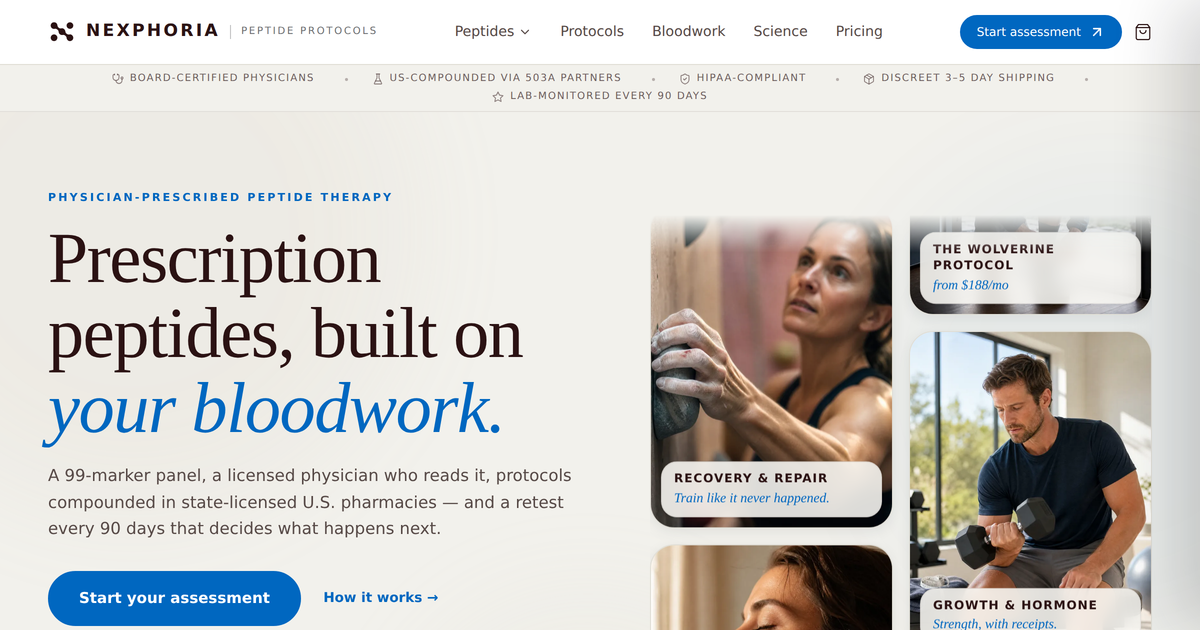
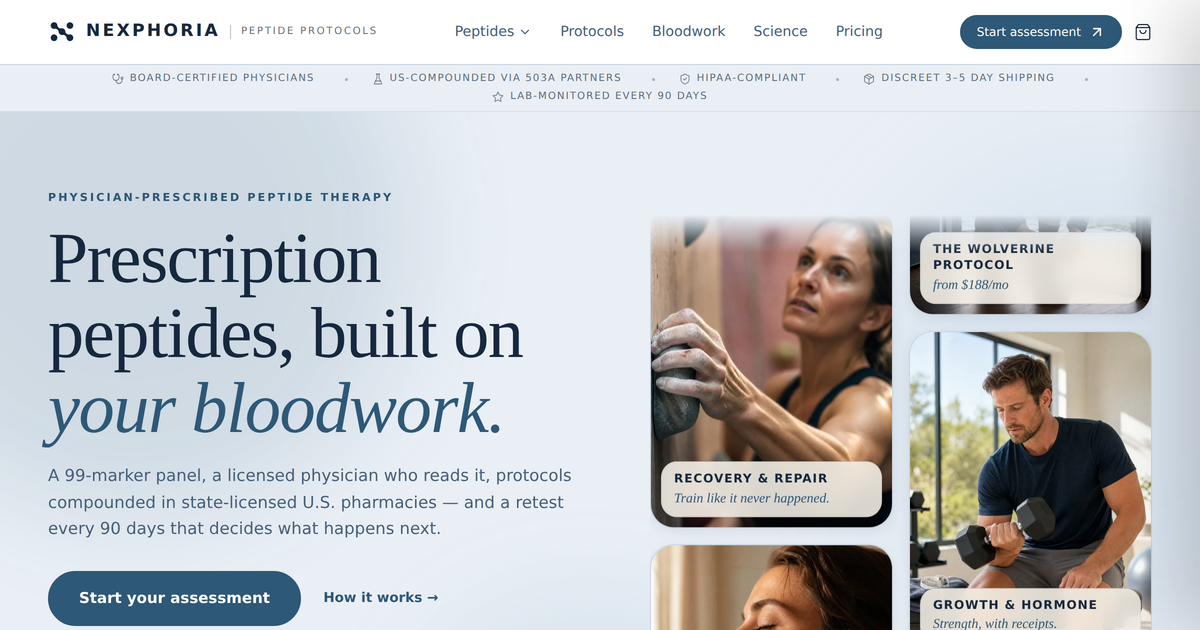
Our colors are back — Porcelain & Navy restored; the protocole grammar stays
WHAT: Chiya's call on seeing Bone & Espresso live: 'why the brown color? can
we keep our colors?' — so the palette experiment is reverted exactly as it
was designed to be: client/src/index.css restored from the pre-sheet history
(881bea4), bringing back the porcelain field, navy ink, azure accent, and
orchid women's world everywhere, including the aurora, light-hero gradient,
mx- family, and the vial/tint illustration palettes. The theprotocole.com
GRAMMAR is kept in full — positioning band, three pillars, education
metaphor, fine-print-first steps, word-triads, hero tile rail. og-default
regenerated from the restored homepage so shared links match again.
CLAUDE.md law 1 re-pins Porcelain & Navy; ROADMAP 8.1 records the
experiment and the same-day reversal.

WHY: the colors ARE the brand; the reference's value was its structure and
its honesty patterns, which survive intact on our own palette.

Gates: tsc clean · build clean · smoke 47/47 · audit:data no drift ·
audit:design fs30/r15/sh7/tr2 tokens 98/98 · audit:funnel 7/7.
Verified: front door, women's world, and how-it-works screenshot back on
azure/orchid with all Phase-8 bands present (qa52-*).

Claude-Session: https://claude.ai/code/session_01D5Q5Te1ja2hg4jytQNpCaS

diff --git a/client/src/index.css b/client/src/index.css
@@ -64,44 +64,44 @@
     --nx-dur-3: 320ms;
     --nx-dur-4: 600ms;
 
-    /* ── Nexphoria brand tokens — BONE & ESPRESSO v2 (2026-07-06) ──
-       Warm-luxury sheet in the protocole grammar Chiya chose: bone field,
-       espresso ink, stone hairlines, ONE electric-blue spark. Token names
-       and architecture unchanged — this sheet is one commit to revert.
-       Every fg/bg pair below holds WCAG AA on its intended surface. */
-    --nx-bg:           #F2F1EC;   /* bone — primary canvas */
-    --nx-bg-cream:     #EAE8E0;   /* deeper bone for alternating sections */
-    --nx-bg-dark:      #201112;  /* espresso night — footer / dark bands */
-    --nx-fg:           #2B1213;  /* espresso ink */
-    --nx-fg-graphite:  #574A47;  /* warm taupe — secondary body copy */
-    --nx-fg-muted:     #6E615C;  /* greige captions — AA on --nx-bg */
-    --nx-border:       #E0DED6;  /* stone hairlines */
-    /* ACCENT — one electric spark on the warm field */
-    --nx-cobalt:       #0067C0;  /* electric blue, deepened for AA — CTAs, links */
-    --nx-cobalt-hover: #0053A0;
-    --nx-cobalt-soft:  #E4EFF9;  /* icy tint for soft fills */
+    /* ── Nexphoria brand tokens ── */
+    /* BACKGROUND — warm cream palette */
+    --nx-bg:           #E9EFF5;   /* warm cream — primary canvas */
+    --nx-bg-cream:     #DCE6EE;   /* deeper cream for alternating sections */
+    --nx-bg-dark:      #22384E;  /* footer / dark sections */
+    --nx-fg:           #16283E;  /* primary ink text */
+    --nx-fg-graphite:  #46607A;  /* secondary body copy */
+    --nx-fg-muted:     #5A7490;  /* tertiary / captions — darkened for WCAG AA on --nx-bg */
+    --nx-border:       #C9D5E0;  /* warm hairline borders */
+    /* ACCENT: INK — the accent IS the typography weight + photography */
+    --nx-cobalt:       #2E5877;  /* warm navy-teal — CTAs, eyebrows, links */
+    --nx-cobalt-hover: #1E4560;  /* slightly lighter ink on hover */
+    --nx-cobalt-soft:  #D9E4EC;  /* warm cream tint for soft bg fills */
     /* AMBER — use SPARINGLY: footnote markers, lab highlights, badges */
-    --nx-amber:        #7A6A52;  /* bronze — very small accents only */
-    --nx-success:      #4E7A63;
-    --nx-warning:      #8A6B3F;
+    --nx-amber:        #3D6C94;  /* burnt amber — very small accents only */
+    --nx-success:      #3D7C94;
+    --nx-warning:      #3D6C94;
 
-    /* ── paneled pastels, rederived on the bone field ── */
-    --nx-ice:          #E9EDF2;  /* the one cool panel — outcome/proof */
-    --nx-ice-edge:     #CDD5DE;
-    --nx-peach:        #F0EDE4;  /* warm panel — metabolic/weight */
-    --nx-peach-edge:   #DDD8C9;
-    --nx-sage:         #E7E6DE;  /* stone panel — recovery/sleep */
-    --nx-sage-edge:    #CFCDC2;
-    /* Rust accent for callouts (reads on dark bands) */
-    --nx-rust:         #C7B9A6;
+    /* ── reference-style paneled pastels, derived from cobalt+rust ── */
+    /* Ice — cobalt's calm cousin. Used for outcome/proof panels.        */
+    --nx-ice:          #DEE8F0;  /* warmed — was cool blue */
+    --nx-ice-edge:     #BBCBD9;
+    /* Peach — rust's warm cousin. Used for metabolic/weight panels.     */
+    --nx-peach:        #F7F3E9;
+    --nx-peach-edge:   #E4DCC9;
+    /* Sage — cream's deeper alternate. Used for recovery/sleep panels.  */
+    --nx-sage:         #DCE4E6;
+    --nx-sage-edge:    #C2CDD1;
+    /* Rust accent for callouts */
+    --nx-rust:         #7FA3C0;
 
     /* ── V3 tokens — locked minimal palette (locked palette) ── */
     /* --nx-black retired → identical to --nx-fg; use var(--nx-fg) */
-    --nx-ceramic:      #FAF9F5;  /* lifted-bone card surface */
-    --nx-rock:         #DBD8CE;
-    --nx-acid:         #4FB1FF;  /* the spark on dark espresso bands */
+    --nx-ceramic:      #F7F3E9;
+    --nx-rock:         #D5DFE8;
+    --nx-acid:         #A9C6DE;
     --nx-danger:       #A4453C;  /* form error — muted brick */
-    --nx-accent:       #0067C0;  /* primary accent */
+    --nx-accent:       #2E5877;  /* primary azure accent */  /* honey chip — was acid green */
 
     /* ══ COMPONENT VARIANT PALETTES ══
        Bespoke per-tone tile/vial colors lifted verbatim out of components so no
@@ -109,32 +109,30 @@
        shift. World-invariant (not overridden in the orchid scope) to match the
        previous hardcoded behavior. Whether these should later snap to the warm
        neutral palette is an open visual decision (needs eyes). */
-    /* GoalVialTile — assessment goal tiles, regraded to the bone field
-       (ROADMAP 8.4): warm-neutral surfaces, espresso-family inks, one cool
-       tone kept in the family for contrast. */
-    --nx-tint-cream-bg:   #F0EDE4;  --nx-tint-cream-ink:   #33231F;
-    --nx-tint-sage-bg:    #EAEAE0;  --nx-tint-sage-ink:    #333A2E;
-    --nx-tint-rose-bg:    #F0E8E4;  --nx-tint-rose-ink:    #4A2E28;
-    --nx-tint-sky-bg:     #E7EBEC;  --nx-tint-sky-ink:     #24393E;
-    --nx-tint-dusk-bg:    #EBE6E8;  --nx-tint-dusk-ink:    #3E2F3A;
-    --nx-tint-butter-bg:  #F1EADC;  --nx-tint-butter-ink:  #3E3018;
-    --nx-tint-cobalt-bg:  #E2EAF2;  --nx-tint-cobalt-ink:  #17395C;
-    --nx-tint-mineral-bg: #EAE8E2;  --nx-tint-mineral-ink: #35322A;
-    /* VialTile — vial surface + liquid hue per tone (warm glass) */
-    --nx-vial-sage-bg:   #EDECE3;  --nx-vial-sage-liq:   #A9B590;
-    --nx-vial-rose-bg:   #F0EAE6;  --nx-vial-rose-liq:   #CBA391;
-    --nx-vial-sky-bg:    #EBEDEC;  --nx-vial-sky-liq:    #93B4BC;
-    --nx-vial-dusk-bg:   #EEE9EB;  --nx-vial-dusk-liq:   #B3A0B8;
-    --nx-vial-butter-bg: #F1ECDF;  --nx-vial-butter-liq: #CBB273;
-    --nx-vial-cobalt-bg: #E9ECEF;  --nx-vial-cobalt-liq: #7FA6C8;
-    --nx-vial-mineral-liq: #ABA795;
+    /* GoalVialTile — assessment goal tiles (surface tint + ink) */
+    --nx-tint-cream-bg:   #E8EFF8;  --nx-tint-cream-ink:   #18293E;
+    --nx-tint-sage-bg:    #E5EFF2;  --nx-tint-sage-ink:    #2E3E44;
+    --nx-tint-rose-bg:    #E1E9F6;  --nx-tint-rose-ink:    #2A3C5C;
+    --nx-tint-sky-bg:     #DDE9F0;  --nx-tint-sky-ink:     #1F3B52;
+    --nx-tint-dusk-bg:    #E4E1EC;  --nx-tint-dusk-ink:    #3A2F4E;
+    --nx-tint-butter-bg:  #D2E3F8;  --nx-tint-butter-ink:  #162D4A;
+    --nx-tint-cobalt-bg:  #D9E2F2;  --nx-tint-cobalt-ink:  #1E2A55;
+    --nx-tint-mineral-bg: #E4E9EC;  --nx-tint-mineral-ink: #2A3841;
+    /* VialTile — vial surface + liquid hue per tone */
+    --nx-vial-sage-bg:   #E6EBF2;  --nx-vial-sage-liq:   #8ABFD1;
+    --nx-vial-rose-bg:   #E6EEF7;  --nx-vial-rose-liq:   #A2C0E4;
+    --nx-vial-sky-bg:    #E8EEF1;  --nx-vial-sky-liq:    #A6C3D0;
+    --nx-vial-dusk-bg:   #EAE6F1;  --nx-vial-dusk-liq:   #B5A8CF;
+    --nx-vial-butter-bg: #DEE7F2;  --nx-vial-butter-liq: #6EA0DD;
+    --nx-vial-cobalt-bg: #E8EDEF;  --nx-vial-cobalt-liq: #8AABB6;
+    --nx-vial-mineral-liq: #9DB3C2;
     /* VialTile — illustration neutrals (cap + label) */
-    --nx-vial-cap:   #BDB9B3;  --nx-vial-cap-shadow:   #A29D96;
-    --nx-vial-label: #3B3634;  --nx-vial-label-shadow: #201C1B;
-    /* VialTile — regulatory status chips (warm-neutral field, legible inks) */
-    --nx-chip-fda-bg:   #EAEFEA;  --nx-chip-fda-fg:   #2E5940;  --nx-chip-fda-edge:   #BCD2C2;
-    --nx-chip-trial-bg: #E4EBF4;  --nx-chip-trial-fg: #17395C;  --nx-chip-trial-edge: #A9C1DA;
-    --nx-chip-rx-fg:    #52483F;  --nx-chip-rx-edge:  #D6CFC5;
+    --nx-vial-cap:   #B8BABB;  --nx-vial-cap-shadow:   #9EA2A5;
+    --nx-vial-label: #3B3B3B;  --nx-vial-label-shadow: #1F1F1F;
+    /* VialTile — regulatory status chips */
+    --nx-chip-fda-bg:   #E6F2F6;  --nx-chip-fda-fg:   #24596B;  --nx-chip-fda-edge:   #B0D2DD;
+    --nx-chip-trial-bg: #DAE6F5;  --nx-chip-trial-fg: #0F3F7A;  --nx-chip-trial-edge: #8AB0DF;
+    --nx-chip-rx-fg:    #3D4A5C;  --nx-chip-rx-edge:  #C6D0DC;
 
     /* ── shadcn semantic mappings — LIGHT ── */
     --background: 0 0% 100%;
@@ -173,34 +171,32 @@
 
   /* ═══ ORCHID WORLD — activates under /women routes ═══ */
   [data-world="women"] {
-    /* Bone & Espresso v2, orchid cast — same warm field as the default
-       world, the accent family shifts to warm rose. AA held throughout. */
-    --nx-bg:           #F4F0EE;
-    --nx-bg-cream:     #ECE5E2;
-    --nx-bg-dark:      #2A171D;
-    --nx-fg:           #301A20;
-    --nx-fg-graphite:  #5E4A50;
-    --nx-fg-muted:     #715D63;  /* AA on the rose-bone --nx-bg */
-    --nx-border:       #E2DBD7;
-    --nx-cobalt:       #A34368;
-    --nx-cobalt-hover: #872F52;
-    --nx-cobalt-soft:  #F3E6EA;
-    --nx-amber:        #7A5E52;
-    --nx-success:      #4E7A63;
-    --nx-warning:      #8A6B3F;
-    --nx-ice:          #EFEAEC;
-    --nx-ice-edge:     #D8CED2;
-    --nx-peach:        #F1EBE6;
-    --nx-peach-edge:   #DFD5CB;
-    --nx-sage:         #EAE5E0;
-    --nx-sage-edge:    #D2CBC4;
-    --nx-rust:         #CDB0A6;
+    --nx-bg:           #FAF4F7;
+    --nx-bg-cream:     #F3ECEF;
+    --nx-bg-dark:      #35212E;
+    --nx-fg:           #35212E;
+    --nx-fg-graphite:  #78646E;
+    --nx-fg-muted:     #7A5F6A;  /* darkened for WCAG AA on orchid --nx-bg */
+    --nx-border:       #E3DBDF;
+    --nx-cobalt:       #68354E;
+    --nx-cobalt-hover: #4F253A;
+    --nx-cobalt-soft:  #F3E8EC;
+    --nx-amber:        #AB5E7C;
+    --nx-success:      #AA6784;
+    --nx-warning:      #AB5E7C;
+    --nx-ice:          #F5EEF1;
+    --nx-ice-edge:     #DDCFD6;
+    --nx-peach:        #F4EAEF;
+    --nx-peach-edge:   #DFCED6;
+    --nx-sage:         #ECE5E8;
+    --nx-sage-edge:    #D3C9CD;
+    --nx-rust:         #D0A2B4;
     /* --nx-black retired → identical to --nx-fg; use var(--nx-fg) */
-    --nx-ceramic:      #FBF7F5;
-    --nx-rock:         #DED6D0;
-    --nx-acid:         #F0A9C8;
+    --nx-ceramic:      #FCF3F7;
+    --nx-rock:         #F1E7EB;
+    --nx-acid:         #F0CBDB;
     --nx-danger:       #A4453C;
-    --nx-accent:       #A34368;
+    --nx-accent:       #C97B99;
 
     /* ── Component variant palettes, orchid parity (Law-1 flagged debt B) ──
        Same lightness relationships as the azure set, hue-shifted into the
@@ -779,17 +775,16 @@
 
 @layer base {
   :root {
-    /* mx- family retuned to Bone & Espresso v2 */
-    --mx-cream:       #EDEBE4;    /* unified tile background */
-    --mx-cream-deep:  #E1DED4;    /* hover tint */
-    --mx-page-bg:     #F0EFE9;    /* page-level bone */
-    --mx-navy:        #2B1213;   /* espresso label color on photo tiles */
-    --mx-ink:         #2B1213;   /* serif labels, pills */
-    --mx-pill:        #2B1213;
-    --mx-pill-text:   #F2F1EC;
-    --mx-dark:        #201112;   /* espresso dark tile */
-    --mx-dark-hover:  #2A1A1B;
-    --mx-dark-text:   #EDE6E2;
+    --mx-cream:       #E3E8EF;    /* unified tile background */
+    --mx-cream-deep:  #D4DCE6;    /* hover tint */
+    --mx-page-bg:     #E6ECF4;    /* page-level pharmacy cream */
+    --mx-navy:        #24282E;   /* warm deep ink — was cool navy */    /* label color on photo tiles */
+    --mx-ink:         #0E2447;   /* warm ink */    /* serif labels, pills */
+    --mx-pill:        #0E2447;
+    --mx-pill-text:   #E6ECF4;
+    --mx-dark:        #1A1E24;   /* warm espresso dark tile */    /* dark tile bg */
+    --mx-dark-hover:  #22272E;
+    --mx-dark-text:   #E0E7F0;
     --mx-radius:      22px;
     --mx-radius-sm:   16px;
   }
@@ -1419,12 +1414,10 @@ html { scrollbar-color: color-mix(in srgb, var(--nx-cobalt) 28%, var(--nx-bg)) v
 
 /* ═══ P3 — Aurora field + tinted glass (world-aware: everything derives from --nx-* tokens) ═══ */
 .nx-aurora { position: absolute; inset: 0; overflow: hidden; pointer-events: none; }
-/* Bone & Espresso: the field stays calm — the aurora is a whisper of warmth
-   with one faint trace of the electric accent, not an azure atmosphere. */
-.nx-aurora i { position: absolute; border-radius: 50%; filter: blur(56px); opacity: 0.4; will-change: transform; }
-.nx-aurora i:nth-child(1) { width: 46vw; height: 46vw; left: -12%; top: -24%; background: color-mix(in srgb, var(--nx-rust) 26%, transparent); animation: nxAur 34s ease-in-out infinite alternate; }
-.nx-aurora i:nth-child(2) { width: 38vw; height: 38vw; right: -10%; top: 4%; background: color-mix(in srgb, var(--nx-accent) 10%, transparent); animation: nxAur 28s ease-in-out infinite alternate-reverse; }
-.nx-aurora i:nth-child(3) { width: 30vw; height: 30vw; left: 34%; bottom: -32%; background: color-mix(in srgb, var(--nx-peach-edge) 40%, transparent); animation: nxAur 40s ease-in-out infinite alternate; }
+.nx-aurora i { position: absolute; border-radius: 50%; filter: blur(56px); opacity: 0.55; will-change: transform; }
+.nx-aurora i:nth-child(1) { width: 46vw; height: 46vw; left: -12%; top: -24%; background: color-mix(in srgb, var(--nx-accent) 26%, transparent); animation: nxAur 34s ease-in-out infinite alternate; }
+.nx-aurora i:nth-child(2) { width: 38vw; height: 38vw; right: -10%; top: 4%; background: color-mix(in srgb, var(--nx-acid) 40%, transparent); animation: nxAur 28s ease-in-out infinite alternate-reverse; }
+.nx-aurora i:nth-child(3) { width: 30vw; height: 30vw; left: 34%; bottom: -32%; background: color-mix(in srgb, var(--nx-rust) 30%, transparent); animation: nxAur 40s ease-in-out infinite alternate; }
 @keyframes nxAur { from { transform: translate3d(0,0,0) scale(1); } to { transform: translate3d(4%,6%,0) scale(1.08); } }
 
 .nx-glass-tile { position: relative; display: block; border-radius: 20px; padding: 1.6rem 1.7rem; text-decoration: none;
@@ -1888,11 +1881,9 @@ html { scrollbar-color: color-mix(in srgb, var(--nx-cobalt) 28%, var(--nx-bg)) v
 /* ── Gradient hero backdrop — soft, editorial, derives from world tokens ── */
 .nx-gradient-hero {
   position: relative;
-  /* Bone & Espresso: light heroes stay warm — --nx-acid is the electric
-     spark for DARK bands and washed the field cool here at 26%. */
   background:
-    radial-gradient(120% 82% at 12% -8%, color-mix(in srgb, var(--nx-accent) 7%, transparent) 0%, transparent 55%),
-    radial-gradient(96% 74% at 104% 4%, color-mix(in srgb, var(--nx-rust) 24%, transparent) 0%, transparent 52%),
+    radial-gradient(120% 82% at 12% -8%, color-mix(in srgb, var(--nx-accent) 12%, transparent) 0%, transparent 55%),
+    radial-gradient(96% 74% at 104% 4%, color-mix(in srgb, var(--nx-acid) 26%, transparent) 0%, transparent 52%),
     linear-gradient(180deg, color-mix(in srgb, var(--nx-ceramic) 55%, transparent) 0%, transparent 78%);
 }
 /* dramatic dark variant — for night bands that want depth, not a flat fill */

diff --git a/CLAUDE.md b/CLAUDE.md
@@ -19,13 +19,14 @@ It is **not** the medical engine. Intake, orders, payments, prescriptions, and A
 ---
 
 ## Standing Laws (never violated)
-1. **Design tokens only — current sheet: Bone & Espresso v2** (2026-07-06, per
-   Chiya's theprotocole.com direction; supersedes Porcelain & Navy — see
-   docs/PROTOCOLE-STUDY.md). Warm bone field, espresso ink, stone hairlines,
-   ONE electric-blue accent (women's world: warm rose). No off-palette color
-   introductions. Use the token system; do not hardcode hex, fontSize, radius,
-   shadow, or transition off-token (the design audit tracks these — do not
-   regress the counts).
+1. **Design tokens only — current sheet: Porcelain & Navy** (reaffirmed by
+   Chiya 2026-07-06: "can we keep our colors?" — the Bone & Espresso
+   experiment from the theprotocole.com study was reverted the same day;
+   the protocole GRAMMAR stayed, its palette did not. See
+   docs/PROTOCOLE-STUDY.md). No off-palette color introductions. Use the
+   token system; do not hardcode hex, fontSize, radius, shadow, or
+   transition off-token (the design audit tracks these — do not regress
+   the counts).
 2. **Two worlds, one engine.** Men = azure/steel. Women = orchid/rose-quartz. Same medical engine underneath.
 3. **Institutional bank voice.** Calm, precise, authoritative. No hype, no exclamation marks, no urgency theater, no discount-brand energy.
 4. **Crimson is reserved for blood imagery only.** Never decorative, never a UI accent.

diff --git a/ROADMAP.md b/ROADMAP.md
@@ -207,11 +207,13 @@ what to do."
 ## PHASE 8 — The Protocole direction (Chiya, 2026-07-06: "exactly what I
 ## had in mind" — see docs/PROTOCOLE-STUDY.md for the full study)
 
-- [x] **8.1 Bone & Espresso v2 token sheet.** (done 2026-07-06) The whole
-  site re-temperatured in one commit: bone field, espresso ink, stone
-  hairlines, electric-blue accent (women: warm rose on the same field).
-  Aurora calmed to a whisper; mx- family retuned. AA held; all gates
-  green; counts non-regressed.
+- [x] **8.1 Bone & Espresso v2 token sheet.** (shipped 2026-07-06,
+  REVERTED same day per Chiya: "why the brown color? can we keep our
+  colors?") The warm sheet proved the one-commit-swap architecture both
+  ways: Porcelain & Navy is back everywhere (index.css restored from
+  pre-sheet history; OG card regenerated to match). The protocole
+  GRAMMAR (8.2–8.4 structure, triads, illustration naming) is kept —
+  only the temperature was declined.
 - [x] **8.2 Front-door grammar pass.** (done 2026-07-06) Shipped: positioning
   band "A protocol. Not a purchase." on the deep-bone field; numbered
   three-pillar band (compounding / physician on every file / measured